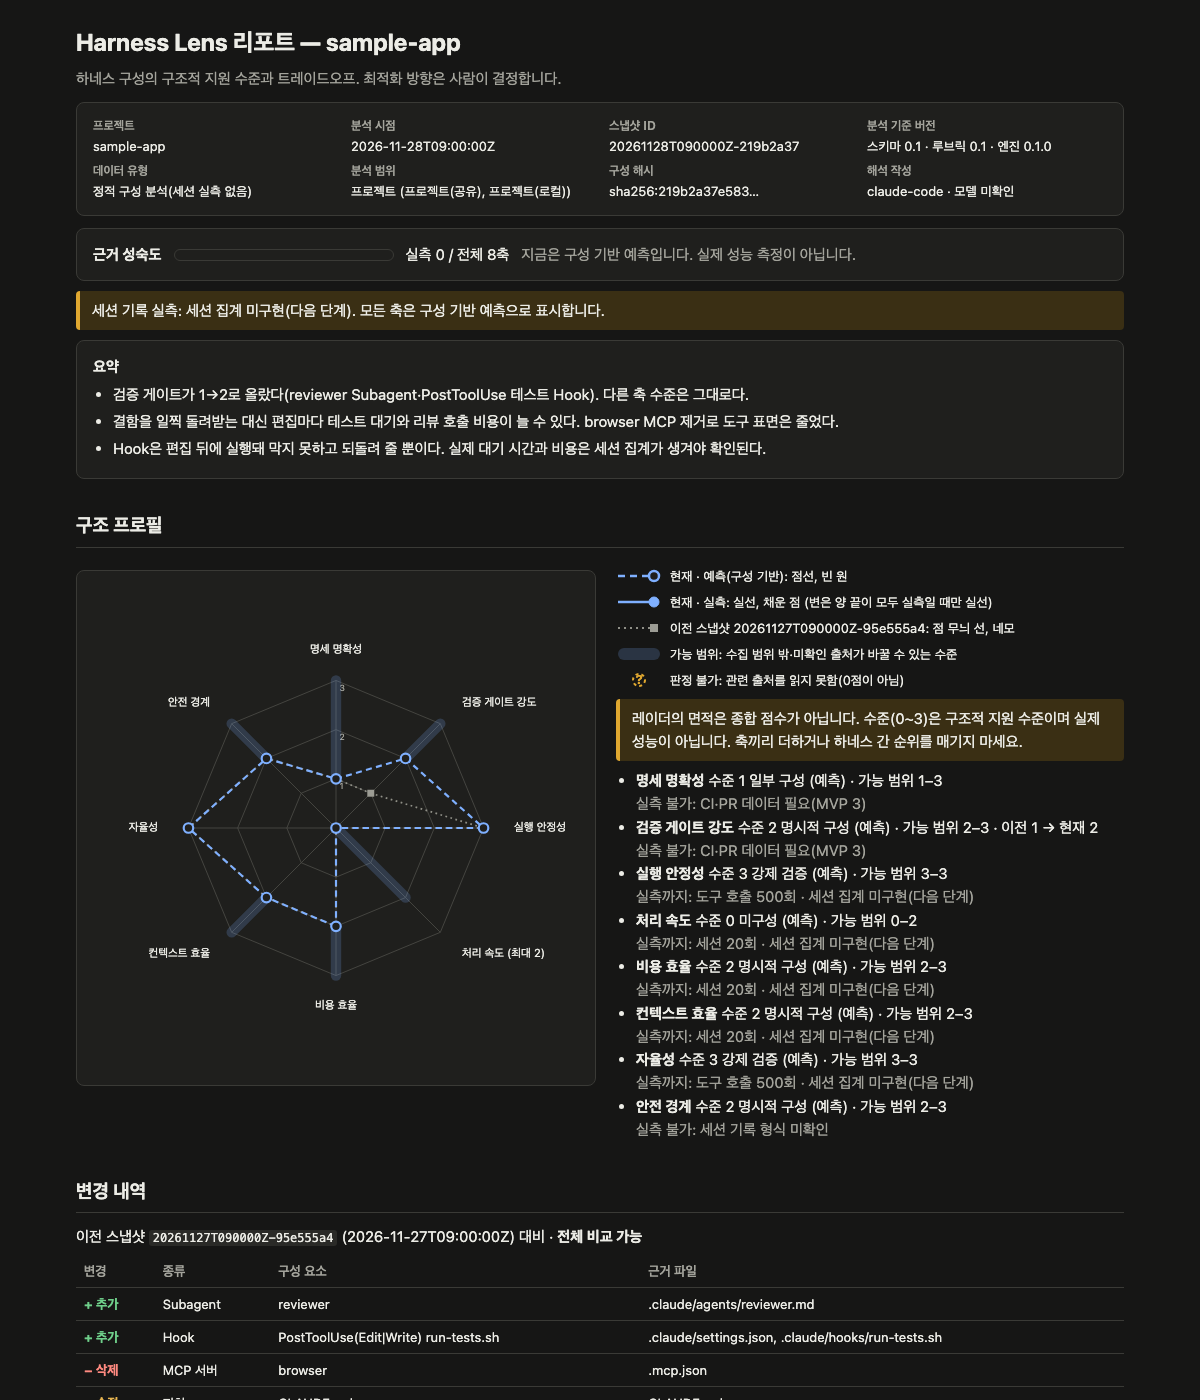
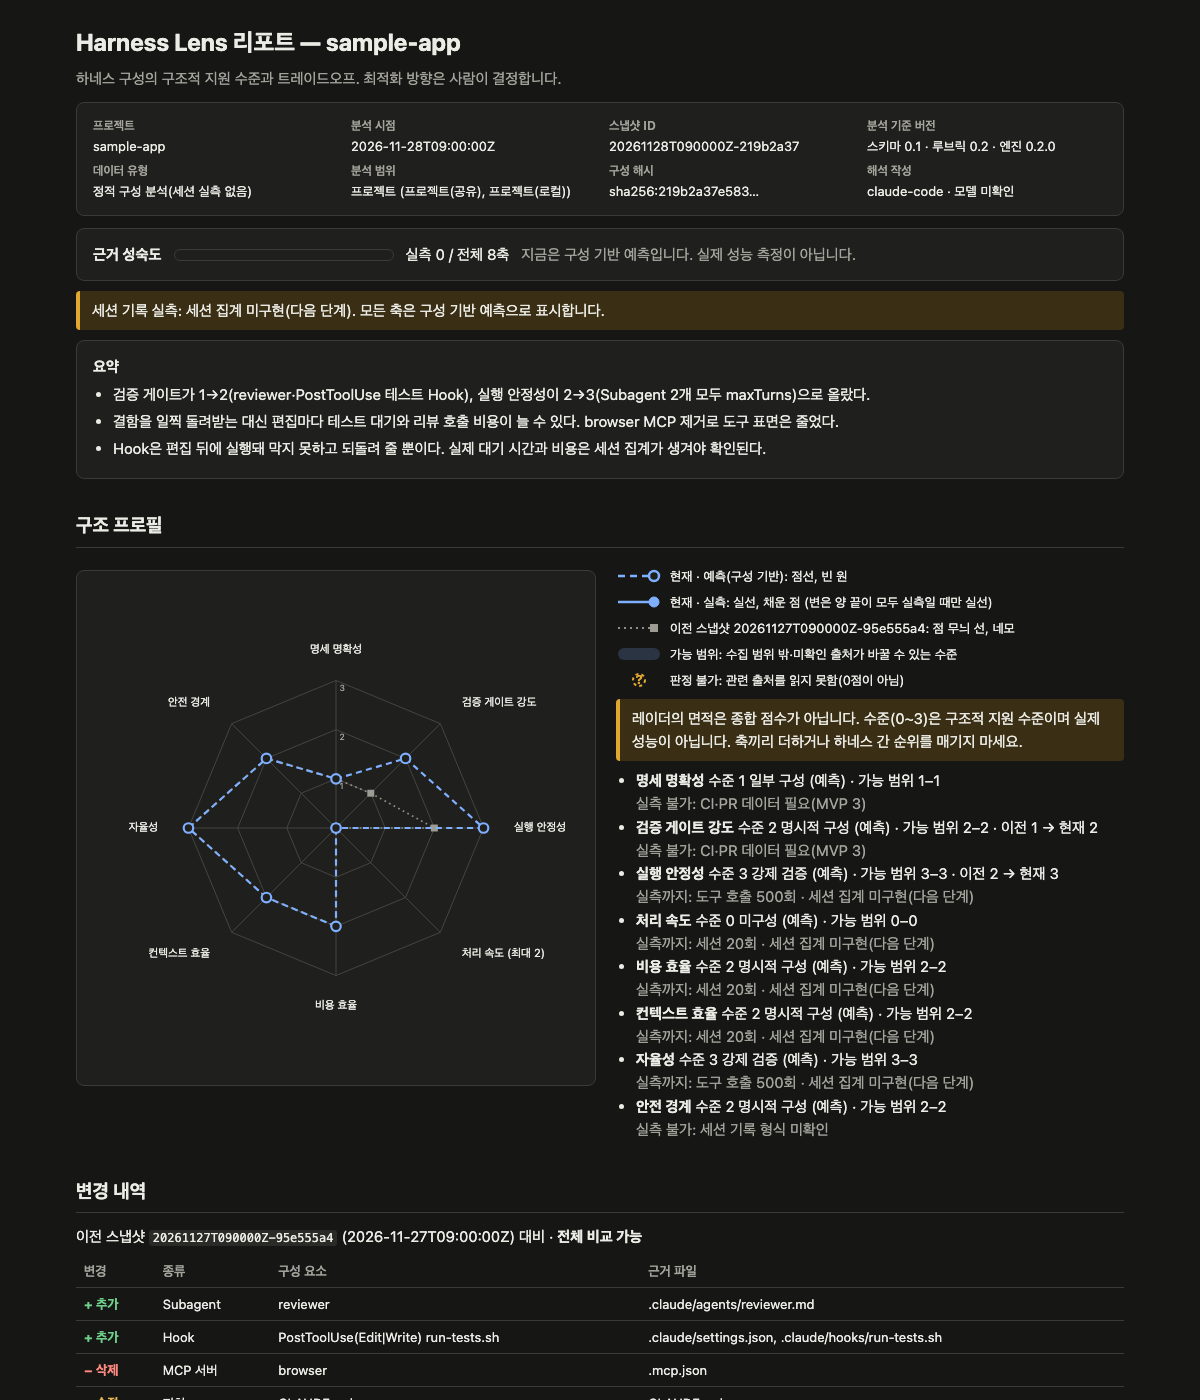
Rubric 0.2: apply owner decisions on ranges, ES-L3, self label, T1
- Possible ranges widen for user/managed scope only when those settings files exist (stat only, reported as out_of_scope sources).
- ES-L3-03 retired; ES-L3-04 requires 2+ subagents all with maxTurns (one subagent stays at ES-L2-01).
- Harness Lens self component uses the fixed label harness-lens/SKILL.md.
- T1 (verification <-> throughput) also triggers on VG-L2-03 PostToolUse blocking hooks.

Engine 0.2.0, rubricVersion 0.2; tests isolate CLAUDE_CONFIG_DIR; example interpretations, bundle and screenshots updated.

diff --git a/skills/harness-analyze/references/evaluation-rubric.md b/skills/harness-analyze/references/evaluation-rubric.md
@@ -1,6 +1,6 @@
-# 평가 루브릭 v0.1
+# 평가 루브릭 v0.2
 
-- 루브릭 버전: `0.1` (분석 결과의 `rubricVersion`)
+- 루브릭 버전: `0.2` (분석 결과의 `rubricVersion`). v0.1과의 차이는 §4.1
 - 대상: PRD v0.3 §7.1의 8개 축, FR-07a, FR-10, FR-11
 - 근거: `docs/research/03-evaluation-axes.md`(축·척도·긴장), `docs/research/02-session-logs.md`(세션 지표)
 - 성격: 이 문서의 규칙은 **엔진이 결정론적으로 실행한다.** 사용자 LLM은 수준을 고르지 않고, 엔진이 계산한 수준을 해석만 한다(`analysis-protocol.md`).
@@ -75,7 +75,7 @@ PRD §7.1의 네 단계 위계(서술 < 절차 < Hook·권한 < 관리형·sandb
 | COM-05 | **개수 무관.** 같은 축의 근거가 여러 개여도 수준은 규칙으로만 정한다. 개수는 상세 표 속성이다 |
 | COM-06 | **단일 귀속.** 근거 하나는 축 하나의 수준 판정에만 쓴다(§1.5). validate가 `V-SINGLE-ATTRIBUTION`으로 확인한다 |
 | COM-07 | **출처 표시.** 사용자·관리형·플러그인 출처의 근거는 `origin`을 남긴다 |
-| COM-08 | **자기 제외.** Harness Lens 자신이 설치한 Skill·플러그인·파일은 어느 축의 근거도 되지 않는다. 자기 비용(`selfCost`)에만 나온다 |
+| COM-08 | **자기 제외.** Harness Lens 자신이 설치한 Skill·플러그인·파일은 어느 축의 근거도 되지 않는다. 자기 비용(`selfCost`)에만 나온다. 자기 구성 요소의 경로는 설치 위치와 무관하게 `harness-lens/SKILL.md`로 표시한다 |
 | COM-09 | **유효 설정 병합.** 목록 키(`permissions.*`)는 출처를 합친다. 스칼라 키는 관리형 > 프로젝트 로컬 > 공유 프로젝트 > 사용자 순으로 앞선 값만 유효하고, 덮인 값의 근거는 `void`다 |
 | COM-10 | **동률.** 같은 수준의 규칙이 여럿이면 규칙 ID 사전순 첫 번째를 `ruleId`로 쓴다 |
 | COM-11 | **적용되지 않는 설정.** 그 출처에서 적용되지 않는다고 공식 문서가 밝힌 값은 `void`다. 예: 프로젝트·로컬 설정의 `defaultMode: "auto"`·`"bypassPermissions"` |
@@ -107,8 +107,10 @@ Hook 스크립트 해석: 명령의 첫 실행 파일(인터프리터 `bash`·`s
 - 예측 상태
   - `min` = 수준(`null`이면 0)이다.
   - `max` = max(수준, 읽지 못했거나 범위 밖인 출처가 이 축에 줄 수 있는 최대 수준)이다.
-  - 사용자 설정을 수집하지 않으면 그 축의 최대 수준까지(`user_scope_not_collected`) 넓힌다.
-  - 관리형 설정을 수집하지 않으면 SB 최대 3(`managed_settings_not_collected`)까지 넓힌다.
+  - `project` 범위에서 수집하지 않은 사용자 설정 파일(`<config-dir>/settings.json`, `<config-dir>/CLAUDE.md`, `<config-dir>/agents/*.md`, Harness Lens 외의 `<config-dir>/skills/*`)이 **실제로 있으면** 그 축의 최대 수준까지(`user_scope_not_collected`) 넓힌다. 엔진은 존재 여부만 확인하고 열지 않으며, 그 파일을 `out_of_scope` 출처로 보고한다.
+  - 관리형 설정 파일(OS별 `managed-settings.json`)이 실제로 있는데 수집하지 않았으면 SB를 최대 3(`managed_settings_not_collected`)까지 넓힌다.
+  - 그런 파일이 없으면 넓히지 않는다. 범위는 프로젝트 근거로만 정한다(v0.2. v0.1은 파일 존재와 무관하게 항상 넓혔다).
+  - `~/.claude.json`의 `mcpServers`는 거의 항상 있는 상태 파일이라 존재 확인 대상에서 뺀다.
   - 읽지 못한 프로젝트 출처가 있으면 그 축의 최대 수준까지(`source_unreadable`) 넓힌다.
 - 축 최대 수준은 3이다. 단, TP는 2다(L3 예약, `level3_reserved`).
 - 실측 상태
@@ -209,7 +211,8 @@ Hook 스크립트 해석: 명령의 첫 실행 파일(인터프리터 `bash`·`s
 | ES-L2-04 | 2 | 역할이 `recovery`인 Skill·Subagent가 있다 | procedure |
 | ES-L3-01 | 3 | 실패 이벤트 Hook(`PostToolUseFailure` 등 이름에 `Failure`가 들어간 이벤트)이 있다 | harness_enforced |
 | ES-L3-02 | 3 | Stop·SubagentStop Hook 스크립트에 LEX-REENTRY가 있다 | harness_enforced |
-| ES-L3-03 | 3 | Subagent가 1개 이상이고 모두 `maxTurns`를 갖는다(ES-L2-01 근거 집합으로 판정) | harness_enforced |
+| ES-L3-03 | — | **폐기(v0.2).** Subagent가 1개 이상이고 모두 `maxTurns`를 갖는다. Subagent 하나만으로 3이 되어 ES-L3-04로 대체했다 | — |
+| ES-L3-04 | 3 | Subagent가 **2개 이상**이고 모두 `maxTurns`를 갖는다(ES-L2-01 근거 집합으로 판정). 하나뿐이면 ES-L2-01(2)이다 | harness_enforced |
 
 - 수준 2와 3의 차이: 상한이 일부에만 있으면 2, 실패 경로나 재진입 방지가 강제되면 3이다.
 - 반례: 오류율은 작업 난이도에 크게 좌우된다. 실측 대역이 낮아도 구성 탓이라고 단정하지 않는다.
@@ -300,7 +303,7 @@ Hook 스크립트 해석: 명령의 첫 실행 파일(인터프리터 `bash`·`s
 
 | ID | 종류 | 축 | 트리거 (결정론적) | 후보 근거 |
 |---|---|---|---|---|
-| T1 | 긴장 | VG ↔ TP | VG-L1-02, VG-L3-01, VG-L3-02 중 하나에 맞는 Hook이 있다(검증 명령을 실행하는 Hook) | 그 Hook 근거 |
+| T1 | 긴장 | VG ↔ TP | VG-L1-02, VG-L2-03, VG-L3-01, VG-L3-02 중 하나에 맞는 Hook이 있다(검증 명령을 실행하거나 실패를 돌려주는 Hook) | 그 Hook 근거 |
 | T2 | 긴장 | VG ↔ CE | VG-L2-01, VG-L2-02, VG-L3-03 중 하나(별도 모델 호출) | 그 근거 |
 | T3 | 긴장 | AU ↔ VG, SB | (a)에 유효 `defaultMode` ∈ {`auto`, `dontAsk`, `bypassPermissions`} 또는 allow에 인자 없는 `Bash`·`Bash(*)`가 있고, SB-L2-02·SB-L2-03 근거가 없다 | (a) 근거 |
 | T4 | 긴장 | VG, SB ↔ AU | `permissions.ask` 3개 이상(휴리스틱) 또는 Notification Hook | ask·Hook 근거 |
@@ -319,3 +322,10 @@ Hook 스크립트 해석: 명령의 첫 실행 파일(인터프리터 `bash`·`s
 - 규칙 조건, 어휘, 임계값, 귀속 순서 중 하나라도 바뀌면 `rubricVersion`을 올린다. 규칙 ID는 재사용하지 않는다. 폐기한 규칙은 이 문서에 "폐기"로 남긴다.
 - 루브릭이 참조하는 설정 키는 구현 전에 공식 문서로 다시 확인하고, 지식 베이스 항목에 URL과 확인일을 남긴다(조사 03 §7.5).
 - 버전이 다른 스냅샷끼리는 `comparison.comparability`를 `limited` 이하로 둔다(FR-06).
+
+### 4.1 변경 이력
+
+| 버전 | 변경 |
+|---|---|
+| 0.2 | 가능 범위: 수집하지 않은 사용자·관리형 설정 파일이 실제로 있을 때만 넓힌다(§1.8). ES-L3-03 폐기, ES-L3-04 추가: Subagent 2개 이상이 모두 `maxTurns`를 가질 때만 3. T1 트리거에 VG-L2-03(차단 표지가 있는 PostToolUse Hook) 추가. 자기 구성 요소(`harness_lens`)의 경로를 설치 위치 대신 고정 라벨 `harness-lens/SKILL.md`로 표시(COM-08) |
+| 0.1 | 최초 공개 |

diff --git a/docs/spec/engine-cli.md b/docs/spec/engine-cli.md
@@ -3,7 +3,7 @@
 - 대상: MVP 1 결정론적 엔진 `skills/harness-analyze/scripts/harness-lens.mjs`(소스 `engine/`)
 - 관련: PRD v0.3 §5, FR-02~FR-11, §6.1, §9, §11, §11.1, §14.1 / `docs/research/01~03`
 - 데이터 계약: `skills/harness-analyze/schemas/analysis.schema.json` (schemaVersion `0.1`)
-- 수준 규칙: `skills/harness-analyze/references/evaluation-rubric.md` (rubricVersion `0.1`)
+- 수준 규칙: `skills/harness-analyze/references/evaluation-rubric.md` (rubricVersion `0.2`)
 - LLM 절차: `skills/harness-analyze/references/analysis-protocol.md`
 
 ## 1. 원칙

diff --git a/skills/harness-analyze/references/analysis-protocol.md b/skills/harness-analyze/references/analysis-protocol.md
@@ -3,7 +3,7 @@
 사용자 LLM이 Harness Lens 분석을 수행하는 표준 절차다. `SKILL.md`가 호출되면 이 문서를 처음부터 끝까지 순서대로 따른다.
 
 - 결과 계약: `schemas/analysis.schema.json` (schemaVersion `0.1`)
-- 수준 판정 기준: `references/evaluation-rubric.md` (rubricVersion `0.1`)
+- 수준 판정 기준: `references/evaluation-rubric.md` (rubricVersion `0.2`)
 - 엔진 명령: `docs/spec/engine-cli.md` (저장소 문서. 배포본에는 아래 요약만 있다)
 
 ## 0. 역할 분담
